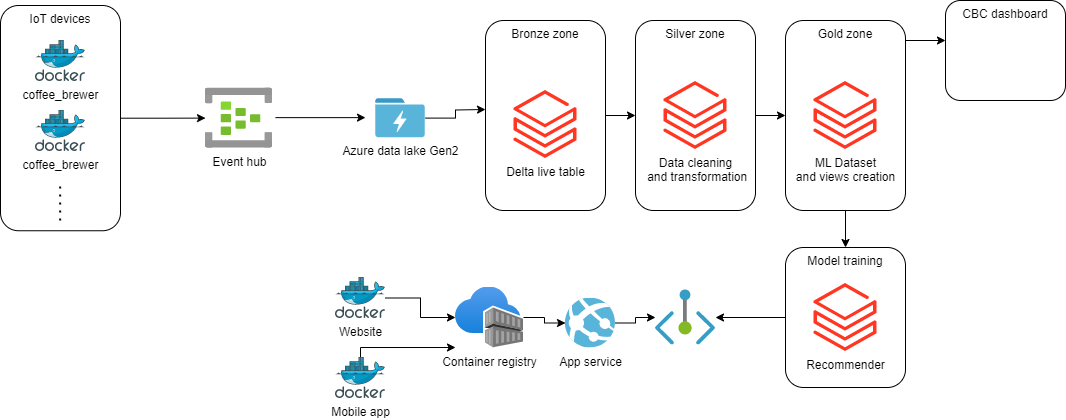
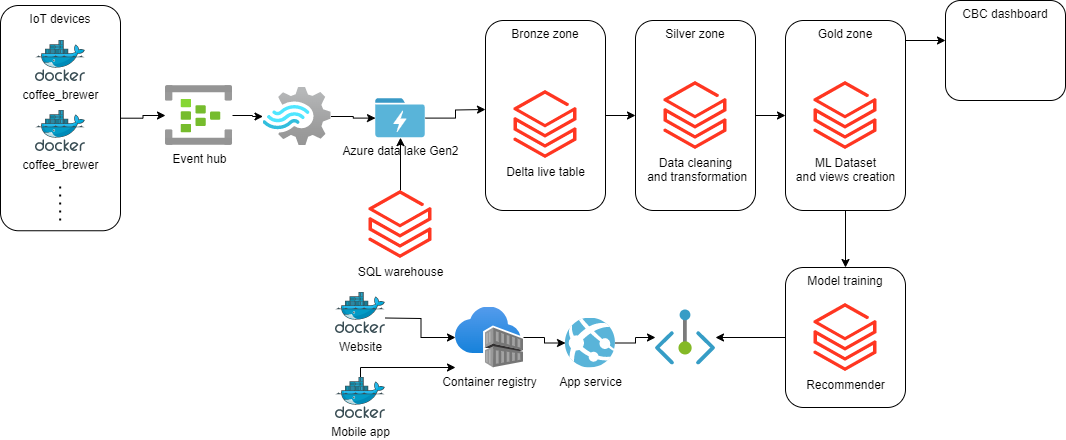
docker files init, stream tests

diff --git a/comms_test.py b/comms_test.py
@@ -1,0 +1,37 @@
+import asyncio
+
+from azure.eventhub import EventData
+from azure.eventhub.aio import EventHubProducerClient
+from azure.identity.aio import DefaultAzureCredential
+
+EVENT_HUB_FULLY_QUALIFIED_NAMESPACE = "coffe-events.servicebus.windows.net"
+EVENT_HUB_NAME = "coffe-stream"
+
+credential = DefaultAzureCredential()
+
+
+async def run():
+    # Create a producer client to send messages to the event hub.
+    # Specify a credential that has correct role assigned to access
+    # event hubs namespace and the event hub name.
+    producer = EventHubProducerClient(
+        fully_qualified_namespace=EVENT_HUB_FULLY_QUALIFIED_NAMESPACE,
+        eventhub_name=EVENT_HUB_NAME,
+        credential=credential,
+    )
+    async with producer:
+        # Create a batch.
+        event_data_batch = await producer.create_batch()
+
+        # Add events to the batch.
+        event_data_batch.add(EventData("First event "))
+        event_data_batch.add(EventData("Second event"))
+        event_data_batch.add(EventData("Third event"))
+
+        # Send the batch of events to the event hub.
+        await producer.send_batch(event_data_batch)
+
+        # Close credential when no longer needed.
+        await credential.close()
+
+asyncio.run(run())
